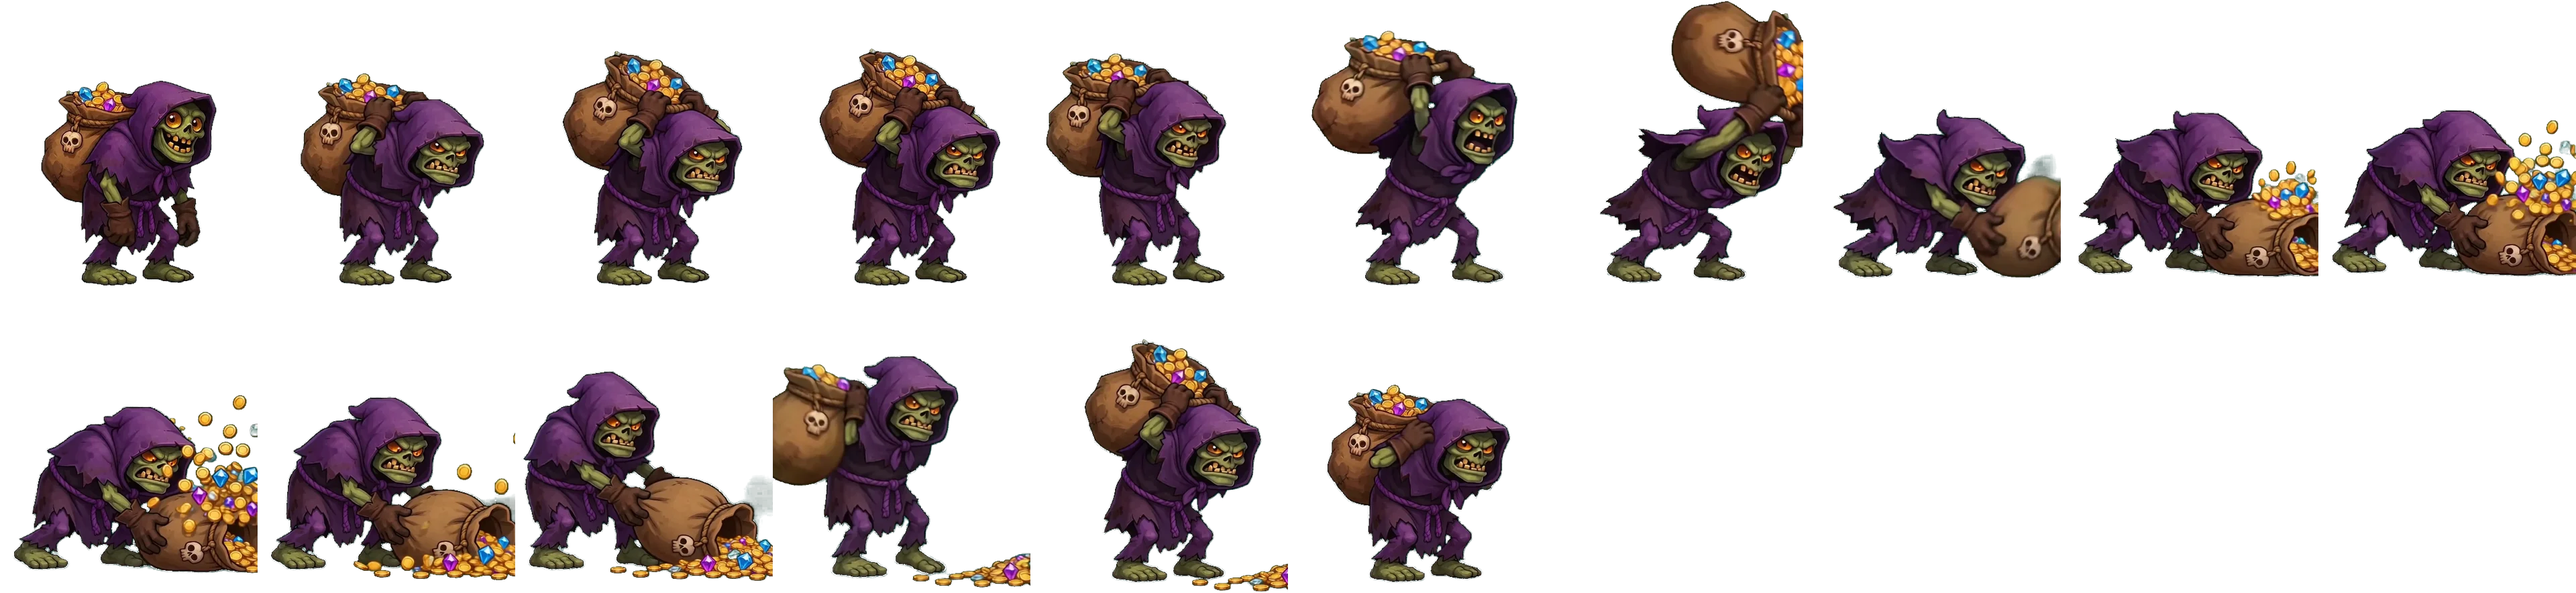
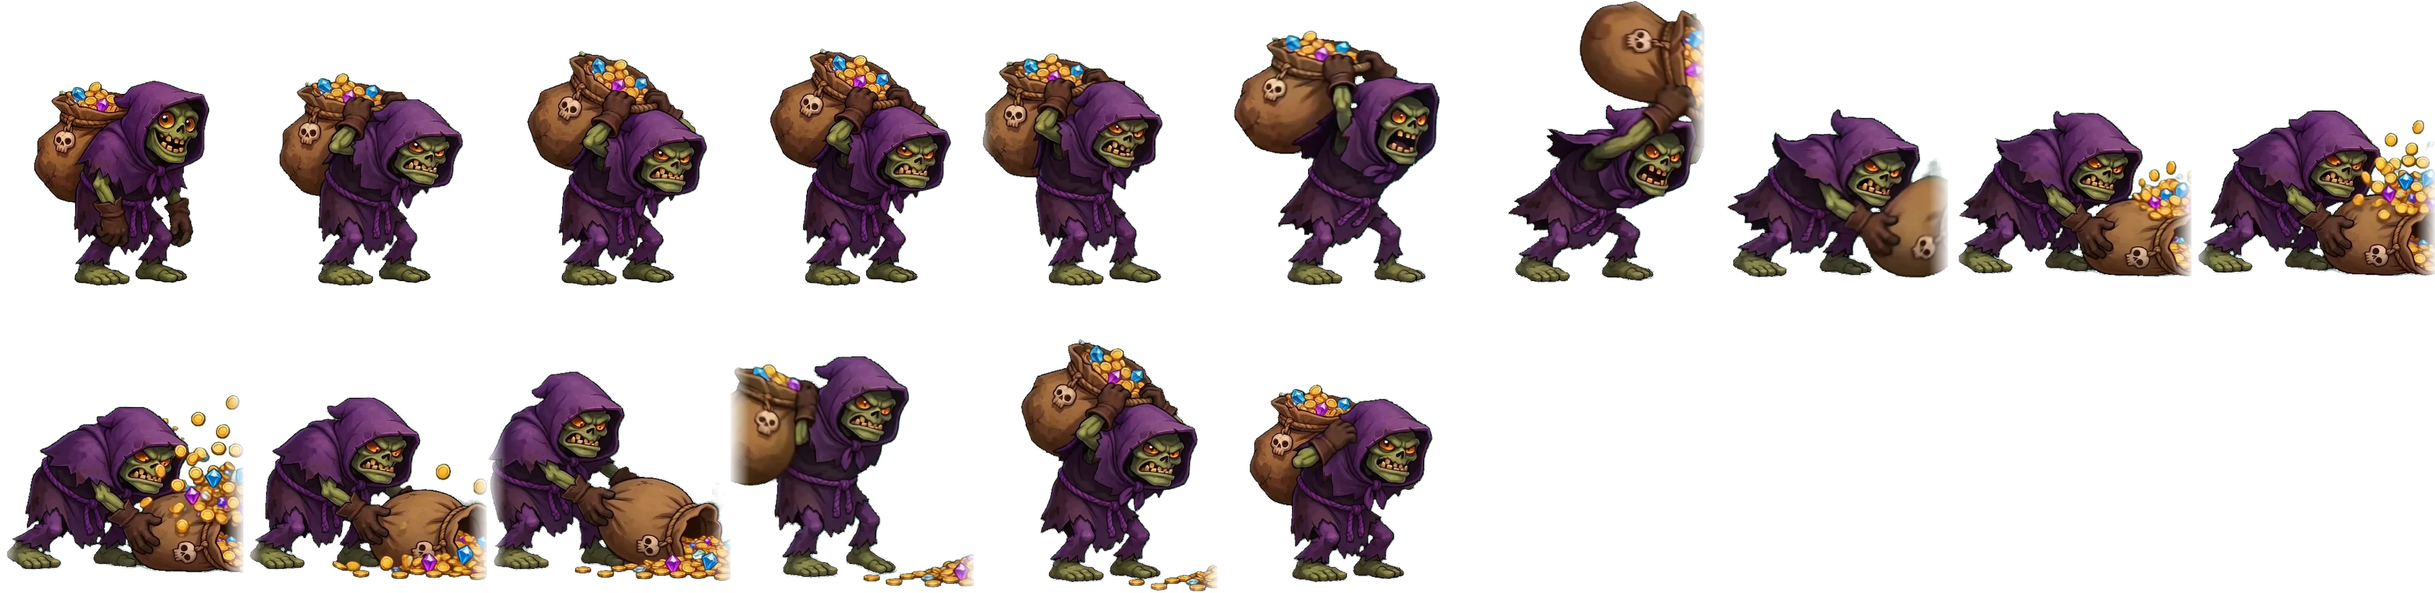
근접 영웅 요요 없앰(적 앞에 붙어 계속 벰) · 때리기 영상 테두리 네모 · 빛기둥 네모 없앰
Claude-Session: https://claude.ai/code/session_015SiUYky4pgBh4AxMeSiCQn

diff --git a/js/field.js b/js/field.js
@@ -26,8 +26,8 @@ const HF = {
     const g = S.giant, ring = st.boss && g.on && g.alpha > 0.5 && !g.dead && !g.leaving && (S.phase === 'fight' || S.phase === 'battle' || S.phase === 'prompt');
     /* 보스전: 거인을 둘러쌈 — 앞 · 거인 오른쪽 옆(왼쪽을 보고 다리를 침) · 아래 앞 · 위 앞. 휴대폰 화면 폭(오른쪽 끝 1160) 안에 들게. 끝나면 원래 마름모로 */
     const R = [[-210, 640, 0], [55, 705, 1], [-120, 690, 0], [-235, 545, 0]];
-    const PB = [[-100, 712], [-230, 490], [-220, 712], [-300, 600]], big = S.army.some(a => !a.fly && a.big);   /* 11-15 16:01 대표님 「배치 더 넓게, 위아래 대각 여러 개」: 소환수 넷 + 영웅 넷을 세 줄(위 490 · 가운데 600 · 아래 712 — 땅 위아래를 끝까지 씀) 엇갈림 — 앞에서부터 45씩 뒤로, 줄마다 번갈아 → 같은 줄 이웃은 135 떨어짐(director.js SLOT과 짝) */
-    this.list.forEach((h, i) => { if (!ring && big) { const q = PB[i] || PB[0]; h.tx = fx + q[0]; h.ty = q[1]; h.flip = false; return; } if (ring) { const q = R[i] || R[0]; h.tx = g.x + q[0]; h.ty = q[1]; h.flip = !!q[2]; } else { const q = P[i] || P[0]; h.tx = fx + q[0]; h.ty = q[1]; h.flip = false; } });
+    const ffx = (S.phase === 'battle' || S.phase === 'fight') ? (S.foes.filter(f => !f.dead && !f.flee && !f.fly).reduce((m, f) => Math.min(m, f.x), 1e9)) : 0, PB = [[-100, 712], [-230, 490], [-220, 712], [-300, 600]], big = S.army.some(a => !a.fly && a.big);   /* 11-15 16:01 대표님 「배치 더 넓게, 위아래 대각 여러 개」: 소환수 넷 + 영웅 넷을 세 줄(위 490 · 가운데 600 · 아래 712 — 땅 위아래를 끝까지 씀) 엇갈림 — 앞에서부터 45씩 뒤로, 줄마다 번갈아 → 같은 줄 이웃은 135 떨어짐(director.js SLOT과 짝) */
+    this.list.forEach((h, i) => { if (!ring && big) { const q = PB[i] || PB[0]; h.tx = fx + q[0]; h.ty = q[1]; h.flip = false; if (!(this.KIND[h.id] || {}).far && ffx) h.tx = Math.max(h.tx, (ffx < 1e8 ? ffx - 95 - (i % 2) * 25 : h.tx)); return; }   /* 11-15 22:50 대표님 「움직임이 자꾸 이상」 · 느린 영상: 근접 영웅이 때릴 때마다 뛰어갔다 제자리로 튕겨 돌아옴(요요) → 적이 있으면 적 맨 앞줄 앞까지 걸어가 그 자리에서 계속 벰(버섯커처럼) */ if (ring) { const q = R[i] || R[0]; h.tx = g.x + q[0]; h.ty = q[1]; h.flip = !!q[2]; } else { const q = P[i] || P[0]; h.tx = fx + q[0]; h.ty = q[1]; h.flip = false; } });
     this.ring = ring;
   },
   tags: [],
@@ -87,6 +87,7 @@ const HF = {
     h.swg = 0; h.swgL = k.far ? 0.45 : 0.52; h.swgB = big ? 1.35 : 1; h.ka = 0;   /* 때리기 영상 시작(0.9초: 젖히기 0.4 · 내려침 0.15 · 돌아오기 0.35 — 6번째 장이 닿는 순간 = 돌진 끝 0.42초쯤) */   /* 윗몸 휘두르기 시작 */
     if (k.far) { this.shots.push({ x: h.x + (h.flip ? -30 : 30), y: h.y - 110, tx: t.x, ty: t.y, age: 0, life: big ? 0.35 : 0.45, col: k.col, big, land }); h.lunge = 0.2; }
     else if (h.flip) h.dash = { age: 0, life: 0.42, dx: -70, dy: clamp(t.y + 40 - h.y, -60, 60), land, hit: false };
+    else if (!t.giant && Math.abs((t.x - 70) - h.x) < 110) { h.dash = { age: 0, life: 0.8, dx: 22, dy: 0, land, hit: false }; }   /* 이미 적 앞에 서 있으면 뛰지 않고 그 자리에서 한 걸음 내디디며 벰 — 닿는 순간 0.4초 = 때리기 영상 6번째 장(내려침) */
     else { const ff = this.foesLive ? this.foesLive() : S.foes.filter(f => !f.dead && !f.flee), fr = ff.length ? Math.min(...ff.map(f => f.x)) : t.x; const q = this.dashTo(h, Math.min(t.x - 60, fr - 55), h.y + clamp(t.y + 40 - h.y, -24, 24), 260);   /* 적 맨 앞줄 앞에서 멈춰 베기(적 사이로 안 들어감) · 위아래는 조금만 */ h.dash = { age: 0, life: t.back ? 0.62 : q.jump ? 0.5 : 0.42, dx: q.dx, dy: q.dy, jump: q.jump, land, hit: false }; }
     return true;
   },
@@ -471,7 +472,7 @@ const LM = {
         ctx.shadowBlur = 0; ctx.fillStyle = '#ffffff'; ctx.beginPath(); ctx.moveTo(x + Math.cos(an) * 22, y + Math.sin(an) * 22); ctx.lineTo(x + Math.cos(an + 2.6) * 12, y + Math.sin(an + 2.6) * 12); ctx.lineTo(x + Math.cos(an - 2.6) * 12, y + Math.sin(an - 2.6) * 12); ctx.fill(); }
       else if (f.kind === 'nova') { const W2 = WK(), R = (f.big ? 520 : 320) * (0.15 + 0.85 * Math.sqrt(k)) * (0.5 + W2 * 0.5); ctx.globalCompositeOperation = 'lighter';
         for (let j = 0; j < 2; j++) { ctx.globalAlpha = (1 - k) * (j ? 0.45 : 0.9); ctx.strokeStyle = j ? '#ffffff' : f.col; ctx.lineWidth = (f.big ? 16 : 10) * (1 - k) + 2; ctx.beginPath(); ctx.ellipse(f.x, f.y + 60, R * (j ? 0.72 : 1), R * 0.32 * (j ? 0.72 : 1), 0, 0, 7); ctx.stroke(); }
-        const cw = (f.big ? 90 : 56) * (1 - k * 0.6), g = ctx.createLinearGradient(f.x - cw, 0, f.x + cw, 0); g.addColorStop(0, 'rgba(255,255,255,0)'); g.addColorStop(0.5, f.col); g.addColorStop(1, 'rgba(255,255,255,0)'); ctx.globalAlpha = Math.max(0, 1 - k * 1.4) * 0.85; ctx.fillStyle = g; ctx.fillRect(f.x - cw, f.y - 700, cw * 2, 760);
+        const cw = (f.big ? 90 : 56) * (1 - k * 0.6); ctx.save(); ctx.translate(f.x, f.y - 300); ctx.scale(cw / 380, 1); const g = ctx.createRadialGradient(0, 0, 0, 0, 0, 380); g.addColorStop(0, f.col); g.addColorStop(0.55, f.col + '66'); g.addColorStop(1, f.col + '00'); ctx.globalAlpha = Math.max(0, 1 - k * 1.4) * 0.85; ctx.fillStyle = g; ctx.beginPath(); ctx.arc(0, 0, 380, 0, 7); ctx.fill(); ctx.restore();   /* 11-15 22:55 느린 영상: 빛기둥을 네모로 칠해 위 · 아래 끝이 잘린 분홍 네모로 보였음 → 길쭉한 타원으로 사방이 서서히 사라지게 */
         ctx.globalAlpha = 1; ctx.globalCompositeOperation = 'source-over'; }
       else if (f.kind === 'fog') { ctx.globalCompositeOperation = 'source-over'; const a = Math.min(1, f.age * 3) * (1 - Math.max(0, (k - 0.7) / 0.3)); for (const p of f.puffs) { const r = p.r * (0.7 + 0.3 * Math.min(1, f.age * 2)), g = ctx.createRadialGradient(f.x + p.dx, f.y + p.dy, 4, f.x + p.dx, f.y + p.dy, r); g.addColorStop(0, `rgba(130,40,215,${0.55 * a})`); g.addColorStop(1, 'rgba(80,20,150,0)'); ctx.fillStyle = g; ctx.beginPath(); ctx.arc(f.x + p.dx + Math.sin(S.t + p.dx) * 6, f.y + p.dy, r, 0, 7); ctx.fill(); } }
       else if (f.kind === 'shout') { const r = 40 + k * 900; ctx.globalCompositeOperation = 'lighter'; for (let j = 0; j < 3; j++) { const rr = r - j * 70; if (rr < 10) continue; ctx.globalAlpha = (1 - k) * (0.9 - j * 0.25); ctx.strokeStyle = j ? '#ffcf5a' : '#fffbe0'; ctx.lineWidth = 18 - j * 5; ctx.beginPath(); ctx.ellipse(f.x, f.y, rr, rr * 0.35, 0, -1.2, 1.2); ctx.stroke(); } }

diff --git a/js/draw.js b/js/draw.js
@@ -301,14 +301,14 @@ const VS = {
   sumv4: { f: 'sumv4', cw: 104, ch: 157, ax: 26.2, ay: 155.8, hpx: 150, n: { attack: 16, idle: 14 } },
   /* 09:55 대표님 「걷기 · 입장 자연스럽게」: 드리미나 제자리 걷기 영상 4편(우리 그림 그대로) → 한 바퀴 16장(vid/걷기줄그림.py) */
   lordw: { f: 'lordw', cw: 468, ch: 332, ax: 139.5, ay: 321.5, hpx: 300, n: { attack: 16 } },   /* 10:05 지배자 「지팡이 내지르기」 영상(그림 A 그대로 · 지팡이 늘 손에 · 16:9라 안 잘림) 1.55~2.9초 16장 */
-  heroK_krag: { f: 'heroK_krag', cw: 411, ch: 471, ax: 205.7, ay: 440.3, hpx: 300.0, n: { atk: 16 }, hit: 6 },   /* 11-15 19:45 영웅 때리기 영상(드리미나 · 젖히기 5 · 내려침 5 · 돌아오기 6장) — 대표님 「종이가 움직이냐」 */
-  heroK_morde: { f: 'heroK_morde', cw: 382, ch: 436, ax: 190.2, ay: 428.5, hpx: 300.0, n: { atk: 16 }, hit: 6 },   /* 11-15 19:45 영웅 때리기 영상(드리미나 · 젖히기 5 · 내려침 5 · 돌아오기 6장) — 대표님 「종이가 움직이냐」 */
-  heroK_serafine: { f: 'heroK_serafine', cw: 399, ch: 457, ax: 199.3, ay: 438.1, hpx: 300.0, n: { atk: 16 }, hit: 6 },   /* 11-15 19:45 영웅 때리기 영상(드리미나 · 젖히기 5 · 내려침 5 · 돌아오기 6장) — 대표님 「종이가 움직이냐」 */
-  heroK_nox: { f: 'heroK_nox', cw: 320, ch: 324, ax: 128.5, ay: 301.4, hpx: 300.0, n: { atk: 16 }, hit: 6 },   /* 11-15 19:45 영웅 때리기 영상(드리미나 · 젖히기 5 · 내려침 5 · 돌아오기 6장) — 대표님 「종이가 움직이냐」 */
-  heroK_drummer: { f: 'heroK_drummer', cw: 348, ch: 331, ax: 156.1, ay: 323.5, hpx: 300.0, n: { atk: 16 }, hit: 6 },   /* 11-15 19:45 영웅 때리기 영상(드리미나 · 젖히기 5 · 내려침 5 · 돌아오기 6장) — 대표님 「종이가 움직이냐」 */
-  heroK_porter: { f: 'heroK_porter', cw: 384, ch: 442, ax: 192.0, ay: 421.1, hpx: 300.0, n: { atk: 16 }, hit: 6 },   /* 11-15 19:45 영웅 때리기 영상(드리미나 · 젖히기 5 · 내려침 5 · 돌아오기 6장) — 대표님 「종이가 움직이냐」 */
-  heroK_twins: { f: 'heroK_twins', cw: 397, ch: 535, ax: 172.9, ay: 510.5, hpx: 300.0, n: { atk: 16 }, hit: 6 },   /* 11-15 19:45 영웅 때리기 영상(드리미나 · 젖히기 5 · 내려침 5 · 돌아오기 6장) — 대표님 「종이가 움직이냐」 */
-  heroK_wisp: { f: 'heroK_wisp', cw: 386, ch: 398, ax: 193.3, ay: 340.5, hpx: 300.0, n: { atk: 16 }, hit: 6 },   /* 11-15 19:45 영웅 때리기 영상(드리미나 · 젖히기 5 · 내려침 5 · 돌아오기 6장) — 대표님 「종이가 움직이냐」 */
+  heroK_krag: { f: 'heroK_krag', cw: 389, ch: 469, ax: 194.4, ay: 439.3, hpx: 300.0, n: { atk: 16 }, hit: 6 },   /* 11-15 19:45 영웅 때리기 영상(드리미나 · 젖히기 5 · 내려침 5 · 돌아오기 6장) — 대표님 「종이가 움직이냐」 */
+  heroK_morde: { f: 'heroK_morde', cw: 363, ch: 434, ax: 181.4, ay: 426.6, hpx: 300.0, n: { atk: 16 }, hit: 6 },   /* 11-15 19:45 영웅 때리기 영상(드리미나 · 젖히기 5 · 내려침 5 · 돌아오기 6장) — 대표님 「종이가 움직이냐」 */
+  heroK_serafine: { f: 'heroK_serafine', cw: 377, ch: 456, ax: 188.3, ay: 438.1, hpx: 300.0, n: { atk: 16 }, hit: 6 },   /* 11-15 19:45 영웅 때리기 영상(드리미나 · 젖히기 5 · 내려침 5 · 돌아오기 6장) — 대표님 「종이가 움직이냐」 */
+  heroK_nox: { f: 'heroK_nox', cw: 310, ch: 317, ax: 128.5, ay: 300.5, hpx: 300.0, n: { atk: 16 }, hit: 6 },   /* 11-15 19:45 영웅 때리기 영상(드리미나 · 젖히기 5 · 내려침 5 · 돌아오기 6장) — 대표님 「종이가 움직이냐」 */
+  heroK_drummer: { f: 'heroK_drummer', cw: 335, ch: 330, ax: 156.1, ay: 322.6, hpx: 300.0, n: { atk: 16 }, hit: 6 },   /* 11-15 19:45 영웅 때리기 영상(드리미나 · 젖히기 5 · 내려침 5 · 돌아오기 6장) — 대표님 「종이가 움직이냐」 */
+  heroK_porter: { f: 'heroK_porter', cw: 363, ch: 442, ax: 181.4, ay: 421.1, hpx: 300.0, n: { atk: 16 }, hit: 6 },   /* 11-15 19:45 영웅 때리기 영상(드리미나 · 젖히기 5 · 내려침 5 · 돌아오기 6장) — 대표님 「종이가 움직이냐」 */
+  heroK_twins: { f: 'heroK_twins', cw: 385, ch: 532, ax: 172.9, ay: 509.4, hpx: 300.0, n: { atk: 16 }, hit: 6 },   /* 11-15 19:45 영웅 때리기 영상(드리미나 · 젖히기 5 · 내려침 5 · 돌아오기 6장) — 대표님 「종이가 움직이냐」 */
+  heroK_wisp: { f: 'heroK_wisp', cw: 365, ch: 377, ax: 182.6, ay: 333.1, hpx: 300.0, n: { atk: 16 }, hit: 6 },   /* 11-15 19:45 영웅 때리기 영상(드리미나 · 젖히기 5 · 내려침 5 · 돌아오기 6장) — 대표님 「종이가 움직이냐」 */
   heroI_krag: { f: 'heroI_krag', cw: 273, ch: 269, ax: 134.7, ay: 262.7, hpx: 260.0, n: { idle: 24 } },   /* 11-15 20:10 영웅 서 있기 영상 */
   heroI_serafine: { f: 'heroI_serafine', cw: 277, ch: 270, ax: 136.3, ay: 263.7, hpx: 260.0, n: { idle: 24 } },   /* 11-15 20:10 영웅 서 있기 영상(드리미나 5초 숨쉬기 → 24장 한 바퀴) */
   heroI_nox: { f: 'heroI_nox', cw: 223, ch: 267, ax: 111.3, ay: 261.2, hpx: 260.0, n: { idle: 24 } },   /* 11-15 20:10 영웅 서 있기 영상(드리미나 5초 숨쉬기 → 24장 한 바퀴) */

diff --git a/index.html b/index.html
@@ -773,7 +773,7 @@
     <!-- 11-14 17:55 「그림 비교 ①②③④」 시험 단추 지움: ③ 예전 개선 + 영상 장면으로 정함(16:30). 시험할 땐 주소에 ?style=2d 처럼 -->
     <button id="reraise"></button>
     <div id="testbar"></div>
-    <div id="ver">판 11-15 22:30</div>
+    <div id="ver">판 11-15 22:46</div>
   </div>
   <div id="grip"><i></i></div>
   <div id="skillbar"><button id="raiseBtn"></button><div id="slots"></div><button id="cast"></button></div>
@@ -787,19 +787,19 @@
 </div>
 <div id="modal"><div class="box"></div></div>
 <script>window.BUILD = '1115102811';</script>   <!-- 11-14 18:12 대표님 「바뀐 새 버전 줘, 저장된 거 주지 말고 첫 시작」: 판마다 저장 이름이 달라 새 판은 늘 1-1부터 -->
-<script src="lang_ko.js?v=1794749436"></script>
-<script src="balance.js?v=1794749436"></script>
-<script src="logic.js?v=1794749436"></script>
-<script src="js/base.js?v=1794749436"></script>
-<script src="js/sound.js?v=1794749436"></script>
-<script src="js/art.js?v=1794749436"></script>
-<script src="js/draw.js?v=1794749436"></script>
-<script src="js/director.js?v=1794749436"></script>
-<script src="js/field.js?v=1794749436"></script>
-<script src="js/ui.js?v=1794749436"></script>
-<script src="js/extra.js?v=1794749436"></script>
-<script src="js/social.js?v=1794749436"></script>
-<script src="js/legal.js?v=1794749436"></script>
-<script src="js/main.js?v=1794749436"></script>
+<script src="lang_ko.js?v=1794750402"></script>
+<script src="balance.js?v=1794750402"></script>
+<script src="logic.js?v=1794750402"></script>
+<script src="js/base.js?v=1794750402"></script>
+<script src="js/sound.js?v=1794750402"></script>
+<script src="js/art.js?v=1794750402"></script>
+<script src="js/draw.js?v=1794750402"></script>
+<script src="js/director.js?v=1794750402"></script>
+<script src="js/field.js?v=1794750402"></script>
+<script src="js/ui.js?v=1794750402"></script>
+<script src="js/extra.js?v=1794750402"></script>
+<script src="js/social.js?v=1794750402"></script>
+<script src="js/legal.js?v=1794750402"></script>
+<script src="js/main.js?v=1794750402"></script>
 </body>
 </html>
